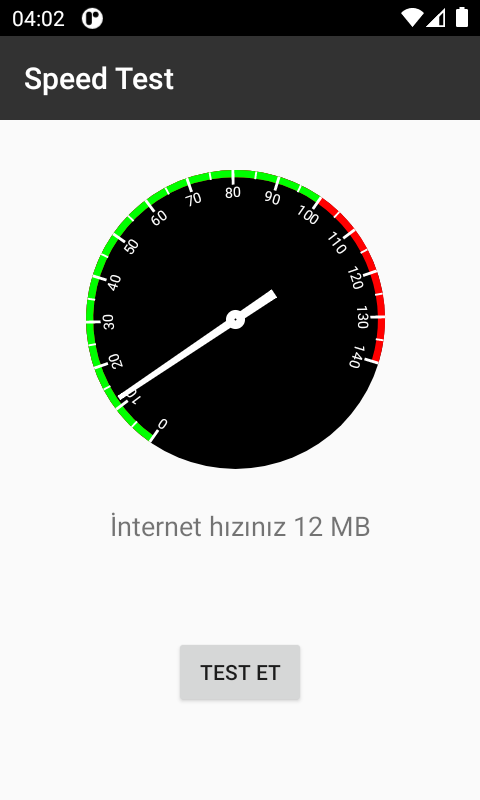
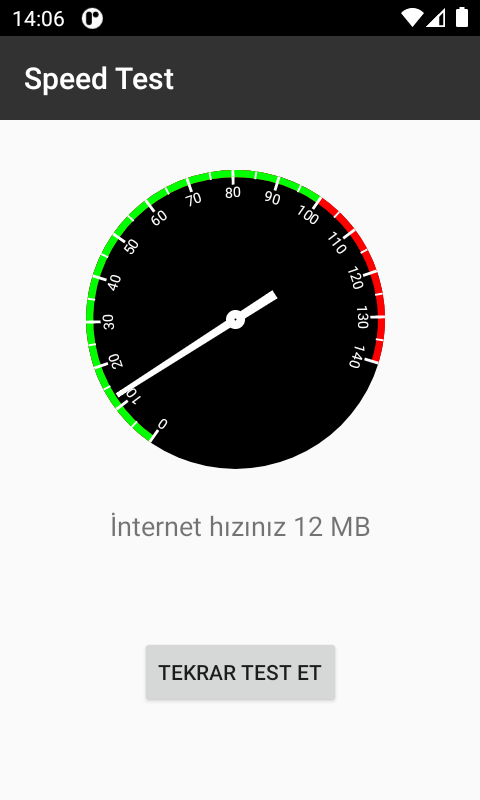
Version 2

diff --git a/app/src/main/java/com/emrecagri/speedtest/MainActivity.java b/app/src/main/java/com/emrecagri/speedtest/MainActivity.java
@@ -26,7 +26,7 @@ public class MainActivity extends AppCompatActivity {
         setContentView(R.layout.activity_main);
 
         speedoMeterView =findViewById(R.id.speedometerview);
-        Button testet = findViewById(R.id.test_et);
+        final Button testet = findViewById(R.id.test_et);
 
 
         testet.setOnClickListener(new View.OnClickListener() {
@@ -35,6 +35,8 @@ public class MainActivity extends AppCompatActivity {
 
                 SpeedTestTask speedTestTask = new SpeedTestTask();
                 speedTestTask.execute();
+
+                testet.setText("Tekrar Test Et");
 
             }
         });
